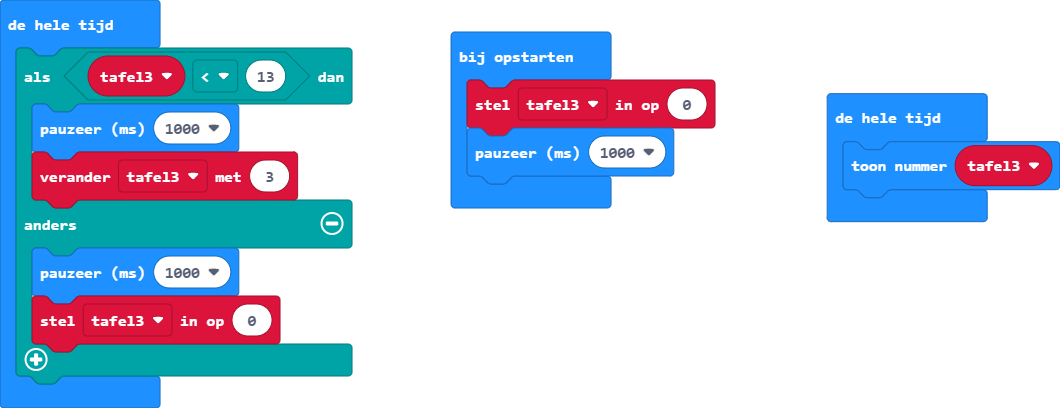
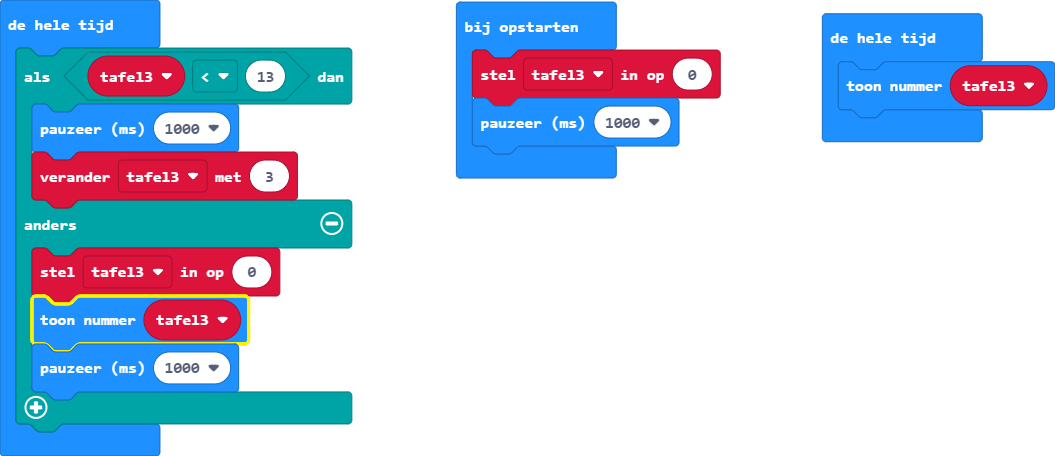
main.blocks, main.ts bijwerken

diff --git a/main.ts b/main.ts
@@ -5,8 +5,9 @@ basic.forever(function () {
         basic.pause(1000)
         tafel3 += 3
     } else {
-        basic.pause(1000)
         tafel3 = 0
+        basic.showNumber(tafel3)
+        basic.pause(1000)
     }
 })
 basic.forever(function () {
